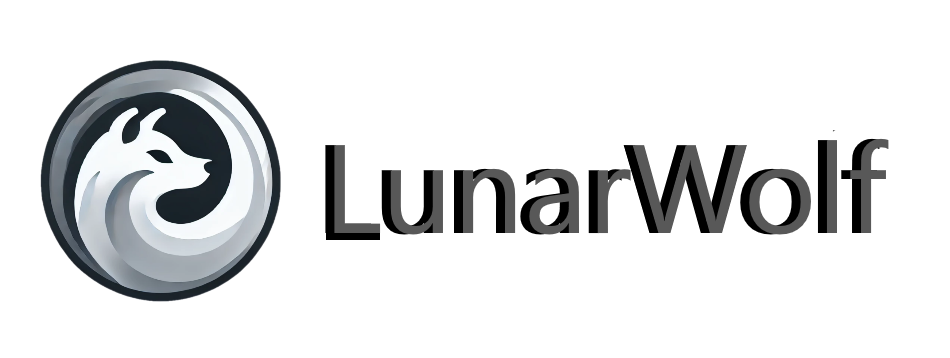
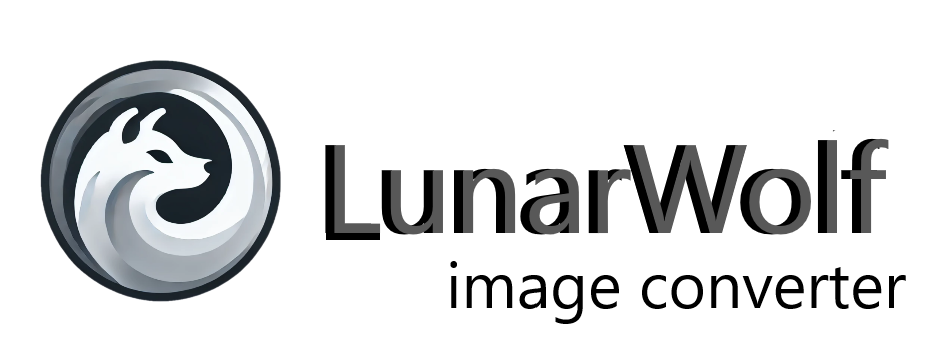
changed app idea

Changed region(s): [[0.4579, 0.7374, 0.9768, 0.9218]]

diff --git a/renderer/converterapp.html b/renderer/converterapp.html
@@ -1,0 +1,125 @@
+<!DOCTYPE html>
+<html lang="en">
+<head>
+  <meta charset="UTF-8">
+  <meta name="viewport" content="width=device-width, initial-scale=1.0">
+  <title>Advanced Image Converter</title>
+  <style>
+    body, html {
+      margin: 0;
+      padding: 0;
+      font-family: Arial, sans-serif;
+      background-color: #f4f4f4;
+      display: flex;
+      flex-direction: column;
+      align-items: center;
+      justify-content: center;
+      height: 100%;
+    }
+
+    .card {
+      background: white;
+      padding: 20px;
+      border-radius: 10px;
+      box-shadow: 0 4px 8px rgba(0, 0, 0, 0.1);
+      max-width: 500px;
+      width: 100%;
+      text-align: center;
+    }
+
+    input[type="file"] {
+      margin: 10px 0;
+    }
+
+    canvas {
+      display: none;
+    }
+
+    button {
+      margin: 10px;
+      padding: 10px 20px;
+      background-color: #007BFF;
+      color: white;
+      border: none;
+      border-radius: 5px;
+      cursor: pointer;
+    }
+
+    button:hover {
+      background-color: #0056b3;
+    }
+
+    select, input {
+      margin: 5px 0;
+    }
+  </style>
+</head>
+<body>
+  <div class="card">
+    <h1>LunarWolf Advanced Image Converter</h1>
+    <input type="file" id="imageInput" accept="image/*">
+    <div>
+      <label for="width">Width: </label>
+      <input type="number" id="width" placeholder="Width">
+      <label for="height">Height: </label>
+      <input type="number" id="height" placeholder="Height">
+    </div>
+    <div>
+      <label for="format">Convert to: </label>
+      <select id="format">
+        <option value="jpeg">JPEG</option>
+        <option value="png">PNG</option>
+        <option value="webp">WEBP</option>
+        <option value="bmp">BMP</option>
+      </select>
+    </div>
+    <button onclick="convertImage()">Convert and Download</button>
+    <canvas id="canvas"></canvas>
+  </div>
+
+  <script>
+    let uploadedImage;
+
+    document.getElementById('imageInput').addEventListener('change', function(event) {
+      const file = event.target.files[0];
+      if (file) {
+        const reader = new FileReader();
+        reader.onload = function(e) {
+          const img = new Image();
+          img.onload = function() {
+            uploadedImage = img;
+            document.getElementById('width').value = img.width;
+            document.getElementById('height').value = img.height;
+          };
+          img.src = e.target.result;
+        };
+        reader.readAsDataURL(file);
+      }
+    });
+
+    function convertImage() {
+      if (!uploadedImage) {
+        alert('Please upload an image first!');
+        return;
+      }
+
+      const canvas = document.getElementById('canvas');
+      const ctx = canvas.getContext('2d');
+
+      const width = parseInt(document.getElementById('width').value, 10);
+      const height = parseInt(document.getElementById('height').value, 10);
+      const format = document.getElementById('format').value;
+
+      canvas.width = width || uploadedImage.width;
+      canvas.height = height || uploadedImage.height;
+
+      ctx.drawImage(uploadedImage, 0, 0, canvas.width, canvas.height);
+
+      const link = document.createElement('a');
+      link.download = `converted_image.${format}`;
+      link.href = canvas.toDataURL(`image/${format}`);
+      link.click();
+    }
+  </script>
+</body>
+</html>

diff --git a/app/initialize/loader.ts b/app/initialize/loader.ts
@@ -15,8 +15,7 @@ function createWindow() {
     },
   });
 
-  // Load the newtab.html for the homepage
-  mainWindow.loadFile(path.resolve(__dirname, "./newtabpage/newtab.html"));
+  mainWindow.loadFile(path.resolve(__dirname, "./applogic/converterapp.html"));
 }
 
 app.whenReady().then(() => {

diff --git a/webpack.main.config.js b/webpack.main.config.js
@@ -25,7 +25,7 @@ module.exports = {
   plugins: [
     new CopyWebpackPlugin({
       patterns: [
-        { from: "renderer/newtab.html", to: "newtabpage/newtab.html" },
+        { from: "renderer/converterapp.html", to: "applogic/converterapp.html" },
       ],
     }),
   ],

diff --git a/README.md b/README.md
@@ -2,6 +2,8 @@
 
 ----------------------------------------------------------------------------------------------------
 
+# LunarWolf Image Converter.
+
 ### Motivation
 ### looking for a electron web browser built on top of react and typescript, look no further, if you think building chromium is to hard and time consuming, i get it, thats one of the reasons this browser is around
 
